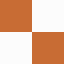
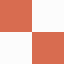
sdlray: move to kenbuild palette

diff --git a/c/sdlray/main3.c b/c/sdlray/main3.c
@@ -97,9 +97,8 @@ static struct {
 	int horizon;
 } ray;
 
-SDL_Surface *wall_textures[4];
+SDL_Surface *wall_textures[256];
 SDL_Surface *sky_texture;
-SDL_Surface *mask_texture;
 
 bool r_sky = true;
 bool r_textures = true;
@@ -282,10 +281,7 @@ void ray_draw_column(int x)
 			SDL_Surface *wall_texture;
 
 			/* get texture */
-			if (hit == HIT_MASK)
-				wall_texture = mask_texture;
-			else
-				wall_texture = wall_textures[tilemap[map_pos.y][map_pos.x].texture & 3];
+			wall_texture = wall_textures[tilemap[map_pos.y][map_pos.x].texture - 1];
 
 			/* get wall impact point */
 			if (!side)
@@ -448,6 +444,42 @@ SDL_bool install_palette(const char *filename, SDL_Surface *surface)
 	return SDL_TRUE;
 }
 
+void load_walls(char *palette)
+{
+	int i;
+	char str[128];
+
+	memset(wall_textures, 0, sizeof(wall_textures));
+
+	for (i = 0; i < 256; i++)
+	{
+		snprintf(str, 128, "gfx/wall%d.png", i + 1);
+
+		wall_textures[i] = IMG_Load(str);
+
+		if (wall_textures[i] == NULL)
+		{
+			printf("Couldn't load %s\n", str);
+			break;
+		}
+
+		install_palette(palette, wall_textures[i]);
+	}
+
+	printf("Loaded %d wall textures.\n", i + 1);
+}
+
+void free_walls(void)
+{
+	int i;
+
+	for (i = 0; i < 256; i++)
+	{
+		if (wall_textures[i] != NULL)
+			SDL_FreeSurface(wall_textures[i]);
+	}
+}
+
 int main(int argc, char **argv)
 {
 	uint32_t pixel_format;
@@ -489,19 +521,10 @@ int main(int argc, char **argv)
 
 	SDL_SetRelativeMouseMode(SDL_TRUE);
 
-	wall_textures[0] = IMG_Load("gfx/wall1.png");
-	wall_textures[1] = IMG_Load("gfx/wall2.png");
-	wall_textures[2] = IMG_Load("gfx/wall3.png");
-	wall_textures[3] = IMG_Load("gfx/wall4.png");
+	load_walls("gfx/kenbuild.pal");
 	sky_texture = IMG_Load("gfx/sky.png");
-	mask_texture = IMG_Load("gfx/mask2.png");
-	install_palette("gfx/rott.pal", wall_textures[0]);
-	install_palette("gfx/rott.pal", wall_textures[1]);
-	install_palette("gfx/rott.pal", wall_textures[2]);
-	install_palette("gfx/rott.pal", wall_textures[3]);
-	install_palette("gfx/rott.pal", sky_texture);
-	install_palette("gfx/rott.pal", mask_texture);
-	install_palette("gfx/rott.pal", sdl.surface8);
+	install_palette("gfx/kenbuild.pal", sky_texture);
+	install_palette("gfx/kenbuild.pal", sdl.surface8);
 
 	sdl.pixels = sdl.surface8->pixels;
 
@@ -516,7 +539,10 @@ int main(int argc, char **argv)
 		for (x = 0; x < MAP_WIDTH; x++)
 		{
 			if (x == 0 || y == 0 || x == MAP_WIDTH - 1 || y == MAP_HEIGHT - 1)
+			{
 				tilemap[y][x].height = 16;
+				tilemap[y][x].texture = 5;
+			}
 		}
 	}
 
@@ -614,12 +640,8 @@ int main(int argc, char **argv)
 	SDL_DestroyWindow(sdl.window);
 	SDL_DestroyRenderer(sdl.renderer);
 	SDL_DestroyTexture(sdl.texture);
-	SDL_FreeSurface(wall_textures[0]);
-	SDL_FreeSurface(wall_textures[1]);
-	SDL_FreeSurface(wall_textures[2]);
-	SDL_FreeSurface(wall_textures[3]);
+	free_walls();
 	SDL_FreeSurface(sky_texture);
-	SDL_FreeSurface(mask_texture);
 	SDL_FreeSurface(sdl.surface8);
 	SDL_FreeSurface(sdl.surface32);
 	IMG_Quit();
